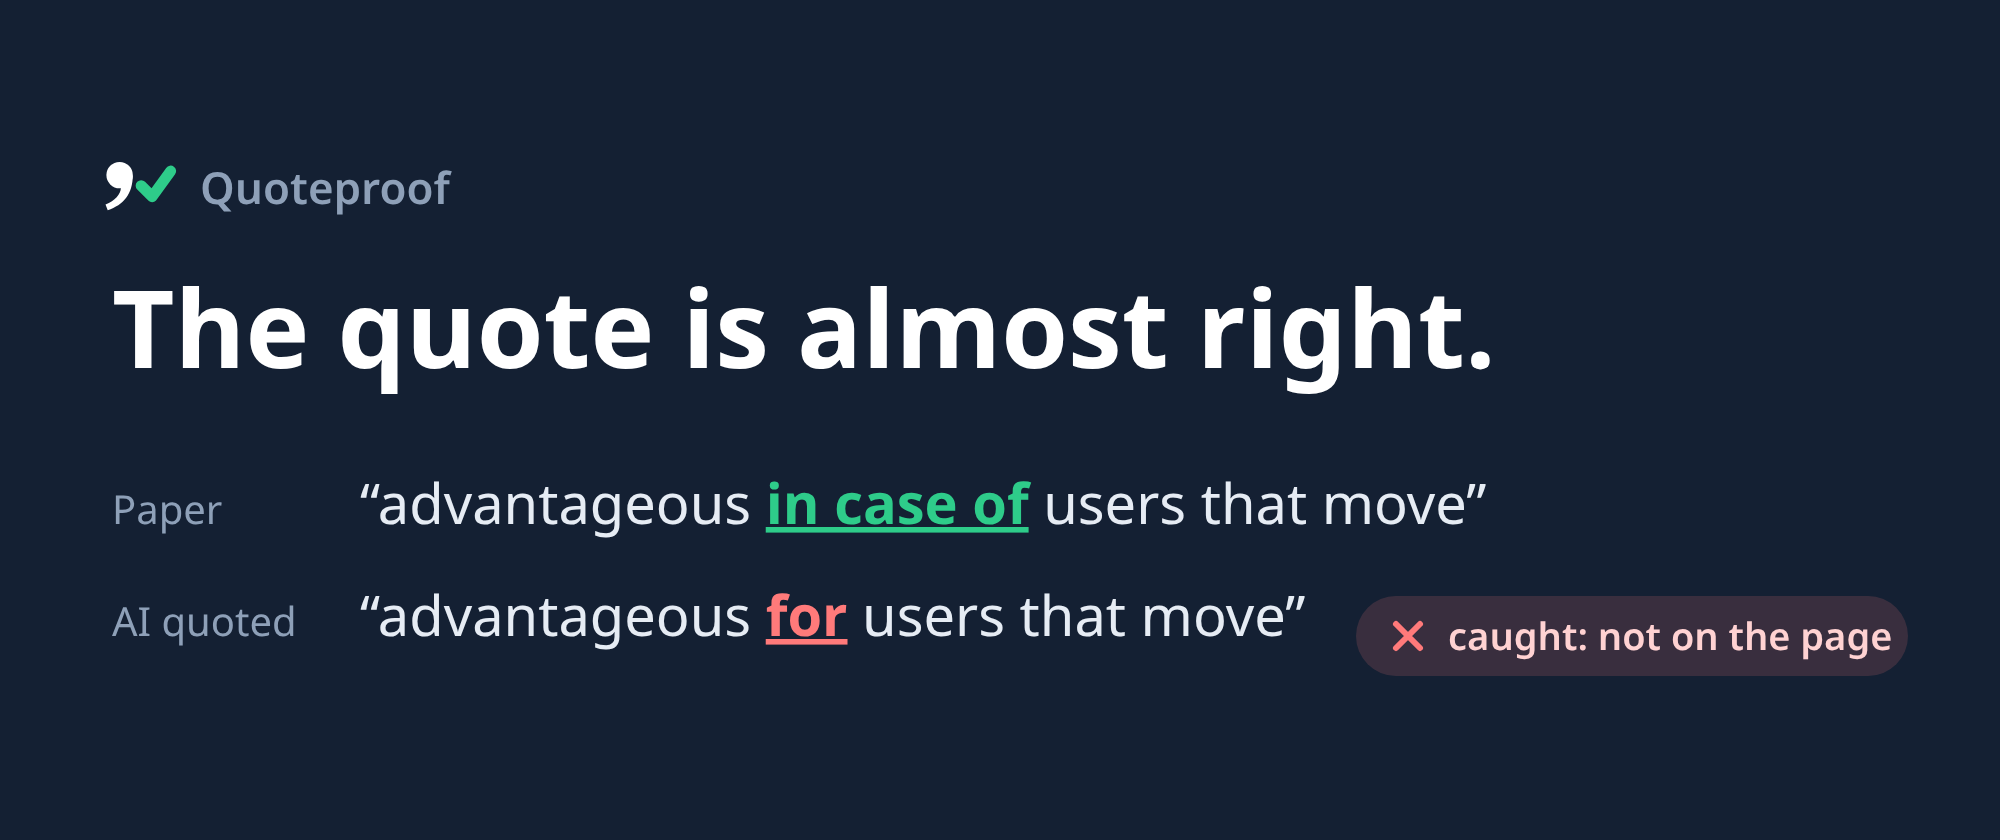
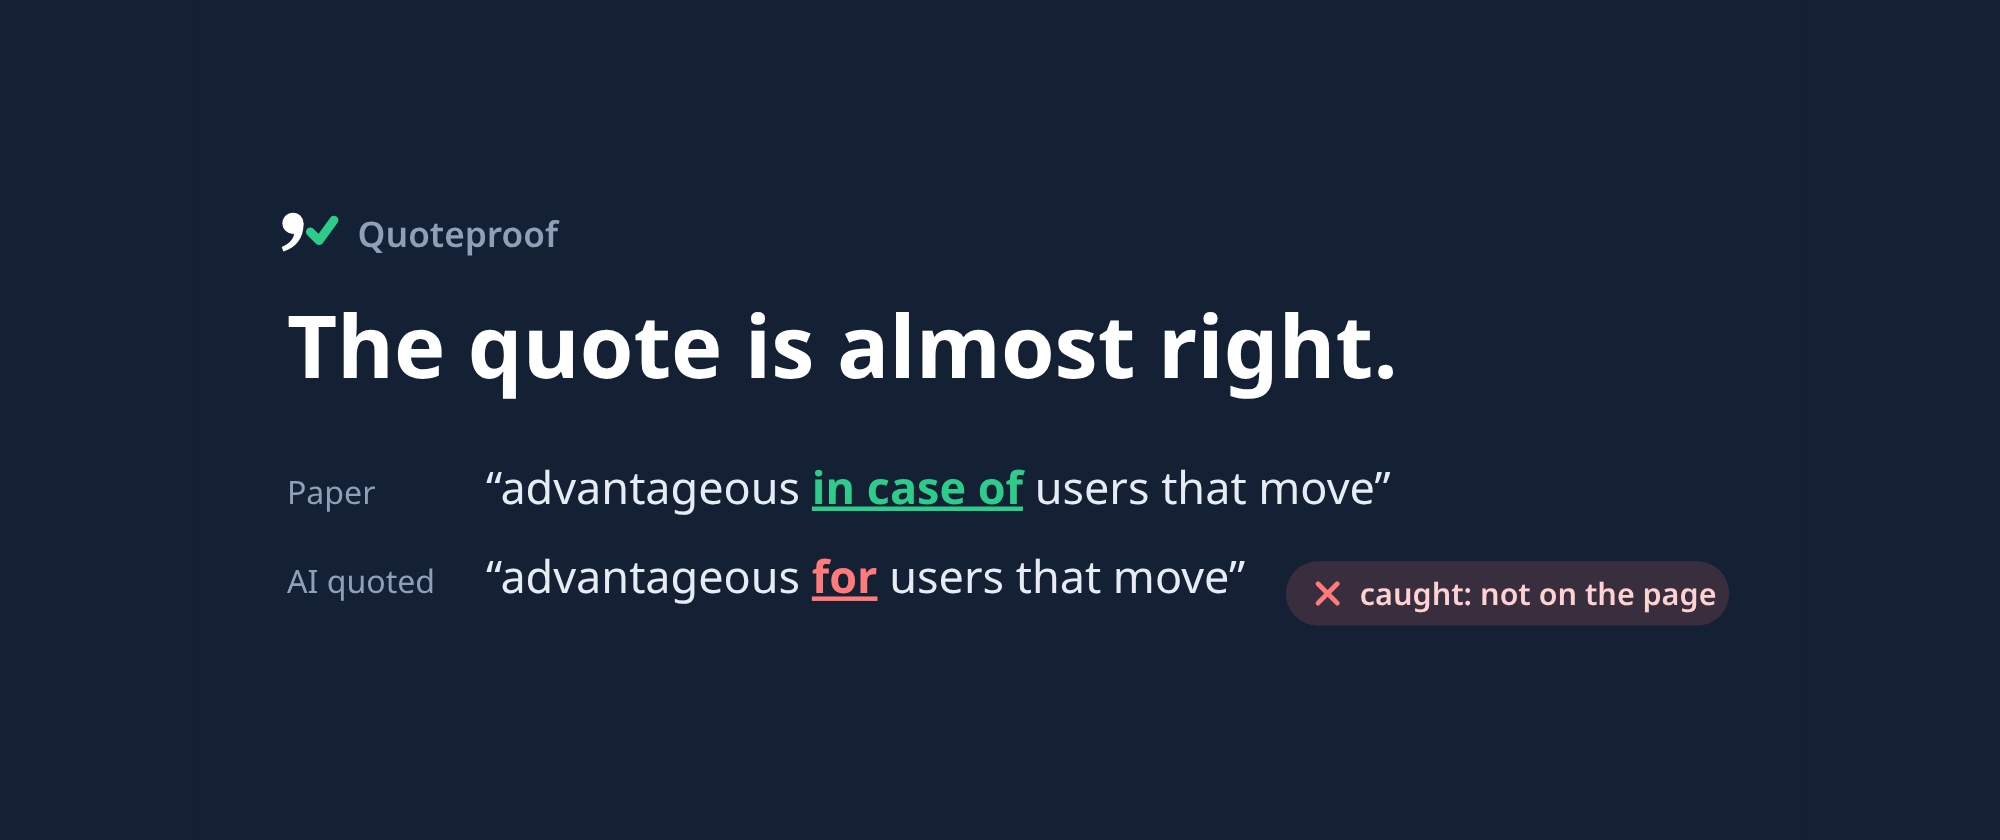
dev.to cover: keep content inside the 1.91:1 link-preview crop
Claude-Session: https://claude.ai/code/session_01B5wtJLztAxL4y4rQWtEWjJ

diff --git a/proof/charts/make_cards.py b/proof/charts/make_cards.py
@@ -158,6 +158,13 @@ if __name__ == "__main__":
         png(s, SOCIAL / f"{name}.png", 1280, 640)
         print("wrote", SOCIAL / f"{name}.png")
     # dev.to cover 1000x420; Medium/LinkedIn preview 1200x627 (same design at 1.91:1), both at 2x
-    for name, h in [("cover-devto", 420), ("cover-wide", 523)]:
-        png(cover(h), SOCIAL / f"{name}.png", 1000, h, scale=2)
+    # dev.to crops its cover to 1.91:1 for link previews, keeping the middle ~804px of 1000:
+    # put the 1.91:1 design inside that middle band so the article cover and the preview both show everything.
+    wide = cover(523)
+    devto = ('<svg xmlns="http://www.w3.org/2000/svg" viewBox="0 0 1000 420" width="1000" height="420">'
+             '<rect width="1000" height="420" fill="#142033"/>'
+             + wide.replace('<svg xmlns="http://www.w3.org/2000/svg" viewBox="0 0 1000 523" width="1000" height="523">',
+                            '<svg x="98" y="0" width="804" height="420" viewBox="0 0 1000 523">') + '</svg>')
+    for name, s, h in [("cover-devto", devto, 420), ("cover-wide", wide, 523)]:
+        png(s, SOCIAL / f"{name}.png", 1000, h, scale=2)
         print("wrote", SOCIAL / f"{name}.png")
